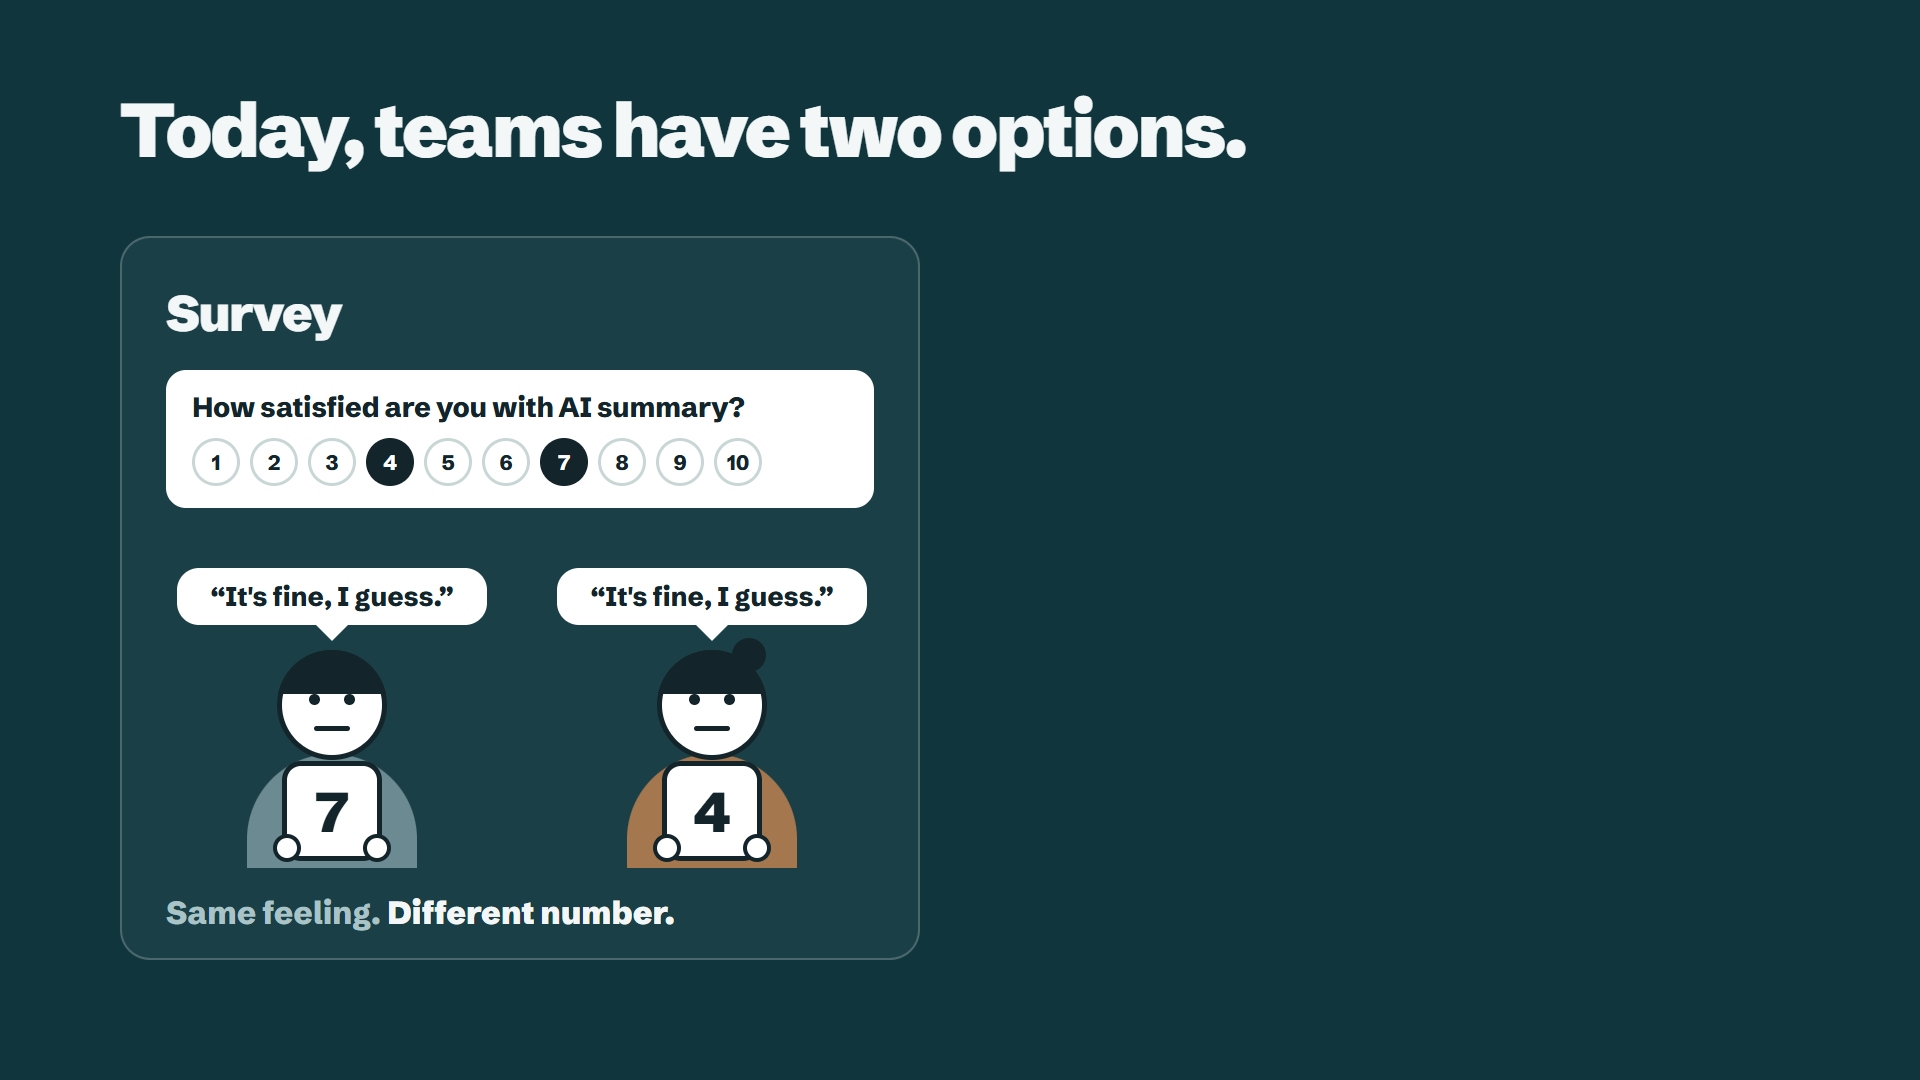
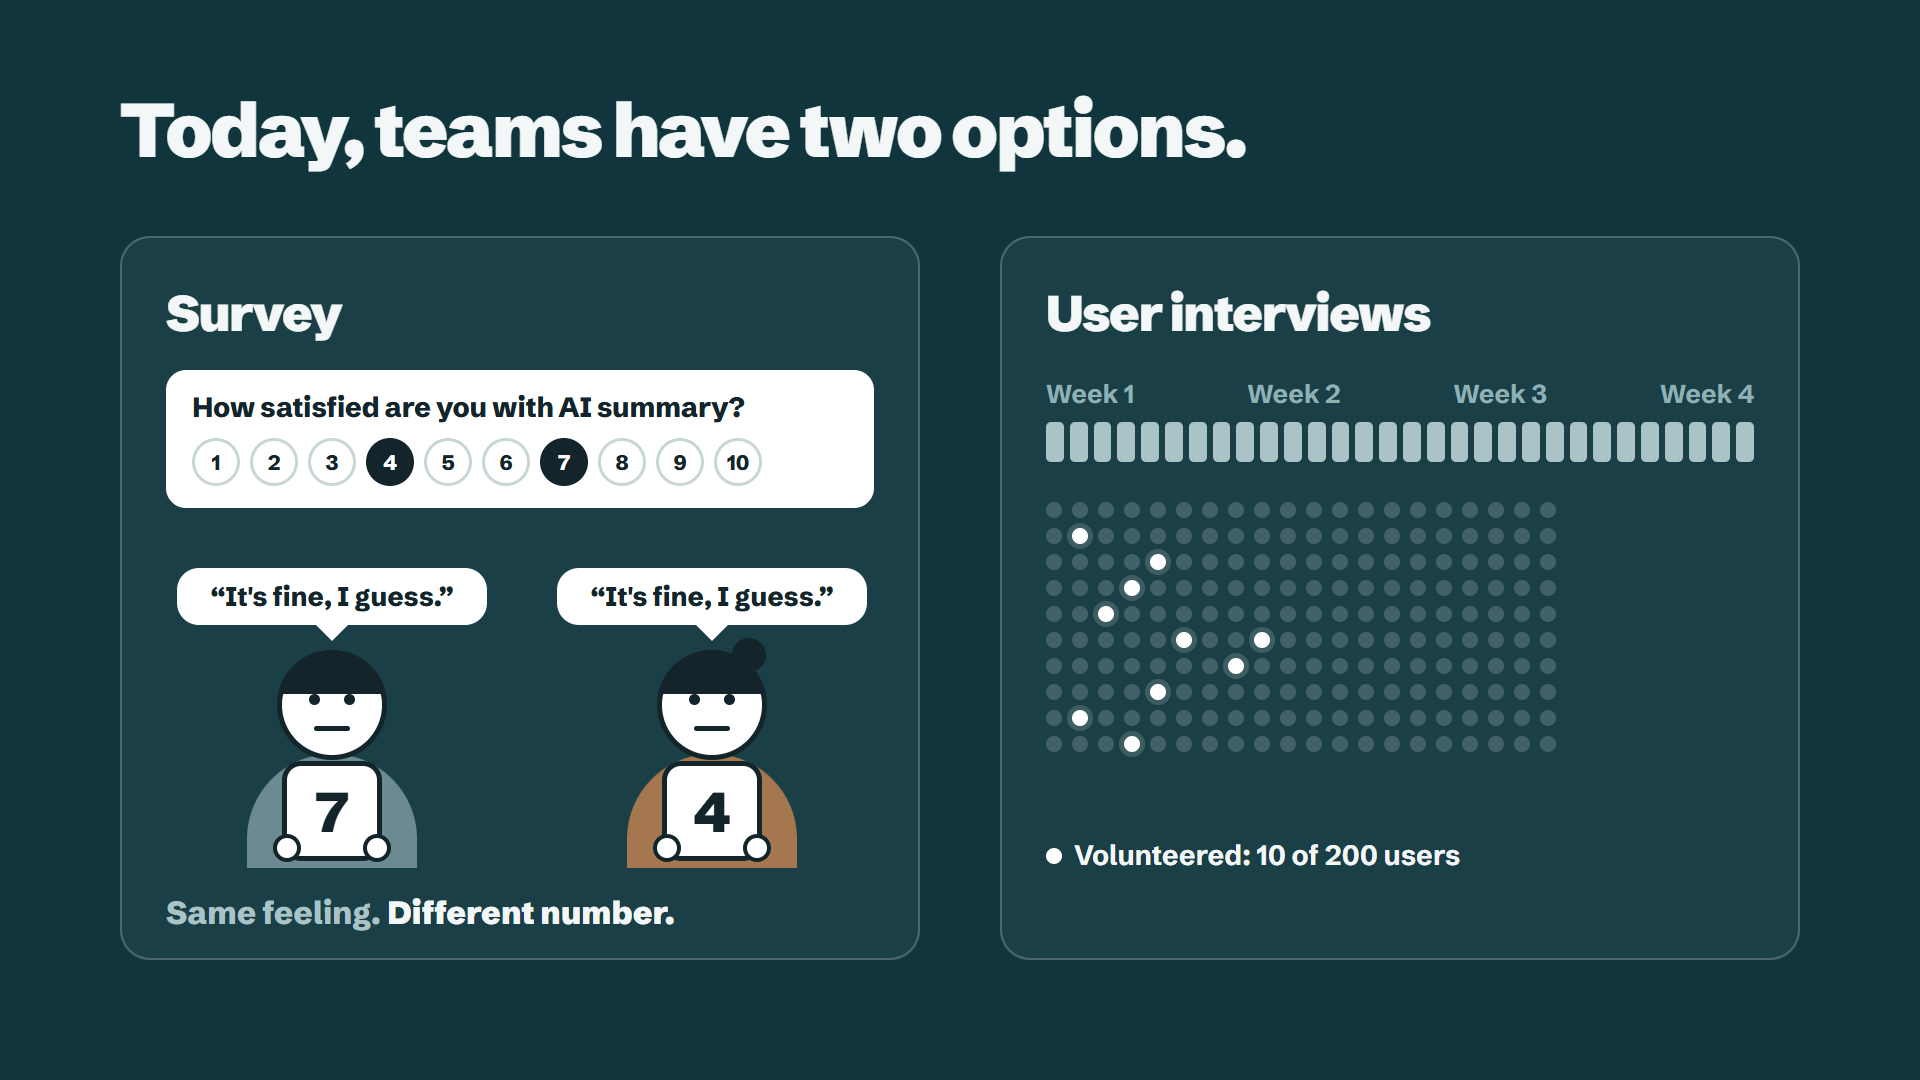
Pitch: anketa i intervjui na istom koraku
Slajd sa dve opcije ima dva koraka: obe kartice odjednom, pa korisnici koji su tiho odustali. How sa prvog koraka vraća na options korak 2.

diff --git a/pitch/options.html b/pitch/options.html
@@ -9,8 +9,8 @@
 <link href="https://fonts.googleapis.com/css2?family=Schibsted+Grotesk:wght@500;600;700;800;900&display=swap" rel="stylesheet">
 <style>
   /*
-    Because · „Danas timovi imaju dve opcije“, 3 koraka uz govor. Isti stil kao uvod.
-    Napred: →, Space, PageDown, Enter, klik. Nazad: ←, PageUp. 1–3: skok. ?beat=2, ?static=1 (za PNG).
+    Because · „Danas timovi imaju dve opcije“, 2 koraka uz govor (1: anketa i intervjui zajedno, 2: oni koji su odustali). Isti stil kao uvod.
+    Napred: →, Space, PageDown, Enter, klik. Nazad: ←, PageUp. 1–2: skok. ?beat=2, ?static=1 (za PNG).
     Sa prvog koraka ← vodi na uvod (korak 4), posle poslednjeg → na „Kako radi“.
   */
   :root {
@@ -115,7 +115,7 @@
     <div class="verdict" id="verdict">Same feeling. <b>Different number.</b></div>
   </section>
 
-  <section class="card" id="cardB" data-in="2" aria-label="User interviews">
+  <section class="card" id="cardB" data-in="1" aria-label="User interviews">
     <h2>User interviews</h2>
     <div class="days-label"><span>Week 1</span><span>Week 2</span><span>Week 3</span><span>Week 4</span></div>
     <div class="days" id="days"></div>
@@ -126,7 +126,7 @@
     </div>
   </section>
 
-  <div class="progress" aria-hidden="true"><i></i><i></i><i></i></div>
+  <div class="progress" aria-hidden="true"><i></i><i></i></div>
 </div>
 
 <script>
@@ -137,7 +137,7 @@
   const RM = matchMedia("(prefers-reduced-motion: reduce)").matches;
   const QUICK = STATIC || RM;
   const EASE = "cubic-bezier(0.22, 1, 0.36, 1)";
-  const STEPS = 3;
+  const STEPS = 2;
   const stage = document.getElementById("stage");
   const $ = (id) => document.getElementById(id);
   if (STATIC) stage.classList.add("static");
@@ -166,7 +166,8 @@
 
   const scale = () => [...$("scale").children];
   const crowd = () => [...$("crowd").children];
-  const hooks = {
+  // Pojedinačne animacije: 1 anketa, 2 intervjui, 3 odustali.
+  const parts = {
     1: {
       parts: ["pa", "pb", "sa", "sb", "ka", "kb", "verdict"],
       reset() { scale().forEach((p) => p.classList.remove("pick")); this.parts.forEach((id) => { $(id).style.opacity = "0"; }); },
@@ -216,6 +217,16 @@
       },
     },
   };
+  const S = parts[1], I = parts[2], G = parts[3];
+  // Korak 1: anketa i intervjui odjednom. Korak 2: odustali.
+  const hooks = {
+    1: {
+      reset() { S.reset(); I.reset(); },
+      final() { S.final(); I.final(); },
+      enter() { S.enter(); I.enter(); },
+    },
+    2: G,
+  };
 
   const els = [...document.querySelectorAll("[data-in]")];
   const nav = [...document.querySelectorAll(".progress i")];
@@ -246,7 +257,7 @@
     if (["ArrowRight", "ArrowDown", "PageDown", " ", "Enter"].includes(k)) { e.preventDefault(); go(cur + 1); }
     else if (["ArrowLeft", "ArrowUp", "PageUp", "Backspace"].includes(k)) { e.preventDefault(); go(cur - 1); }
     else if (k === "Home") { cur = 0; go(1); }
-    else if (/^[1-3]$/.test(k)) go(Number(k));
+    else if (/^[1-2]$/.test(k)) go(Number(k));
   });
   stage.addEventListener("click", () => go(cur + 1));
   go(Math.max(1, Math.min(STEPS, Number(params.get("beat")) || 1)));

diff --git a/pitch/how.html b/pitch/how.html
@@ -13,7 +13,7 @@
     1: istraživač koji intervjuiše svakog korisnika. 2: PostHog. 3: grupe po ponašanju (prave brojke iz seed-a).
     4: intervju (prava rečenica iz simulacije). 5: odgovor nazad u PostHog (ai_main_reason).
     Napred: →, Space, PageDown, Enter, klik. Nazad: ←, PageUp. 1–5: skok. ?beat=3, ?static=1 (za PNG).
-    Sa prvog koraka ← vodi na „Dve opcije“ (korak 3).
+    Sa prvog koraka ← vodi na „Dve opcije“ (korak 2).
   */
   :root {
     --font: "Schibsted Grotesk", "Segoe UI", system-ui, sans-serif;
@@ -152,7 +152,7 @@
 
 <script>
 (() => {
-  const PREV = "options.html?beat=3", NEXT = "depth.html";
+  const PREV = "options.html?beat=2", NEXT = "depth.html";
   const params = new URLSearchParams(location.search);
   const STATIC = params.get("static") === "1";
   const RM = matchMedia("(prefers-reduced-motion: reduce)").matches;
